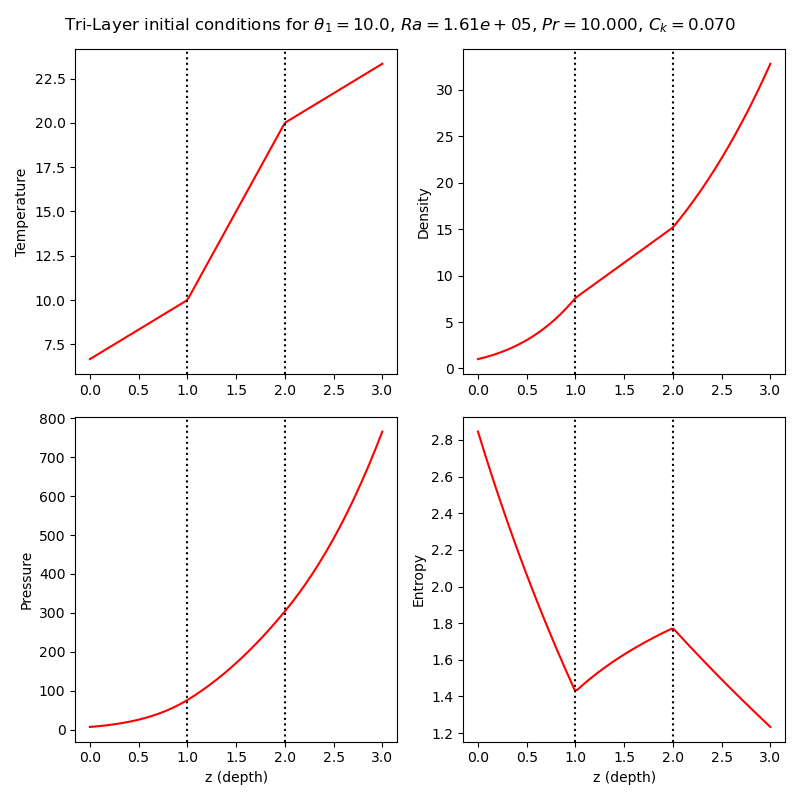
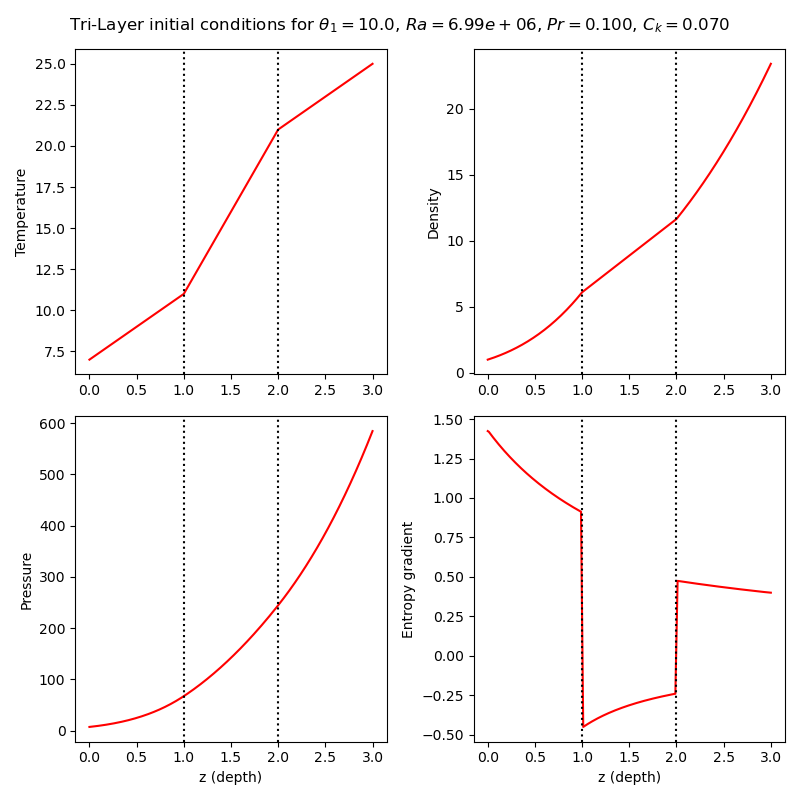
PLotting the entropy gradient

diff --git a/ic_generator.py b/ic_generator.py
@@ -193,12 +193,13 @@ p[dom3] = p2 * (T[dom3]/T2)**(m2+1)
 
 R = 1.0
 Sen = gamma / (gamma-1.0) * np.log(T) - R*np.log(p)
+dSdr = np.gradient(Sen, z[0]-z[1])
 
 fig, ax = plt.subplots(2, 2, figsize=(8, 8))
 ax[0,0].plot(z, T, '-r')
 ax[0,1].plot(z, rho, '-r')
 ax[1,0].plot(z, p, '-r')
-ax[1,1].plot(z, Sen, '-r')
+ax[1,1].plot(z, dSdr, '-r')
 
 for i in range(2):
   for j in range(2):
@@ -210,7 +211,7 @@ ax[1,1].set_xlabel('z (depth)')
 ax[0,0].set_ylabel('Temperature')
 ax[0,1].set_ylabel('Density')
 ax[1,0].set_ylabel('Pressure')
-ax[1,1].set_ylabel('Entropy')
+ax[1,1].set_ylabel('Entropy gradient')
 title = r'Tri-Layer initial conditions for $\theta_1={:.1f}$, $Ra={:.2e}$, $Pr={:.3f}$, $C_k={:.3f}$'.format(theta1, Ra, sigma, Ck)
 plt.suptitle(title)
 plt.tight_layout()
